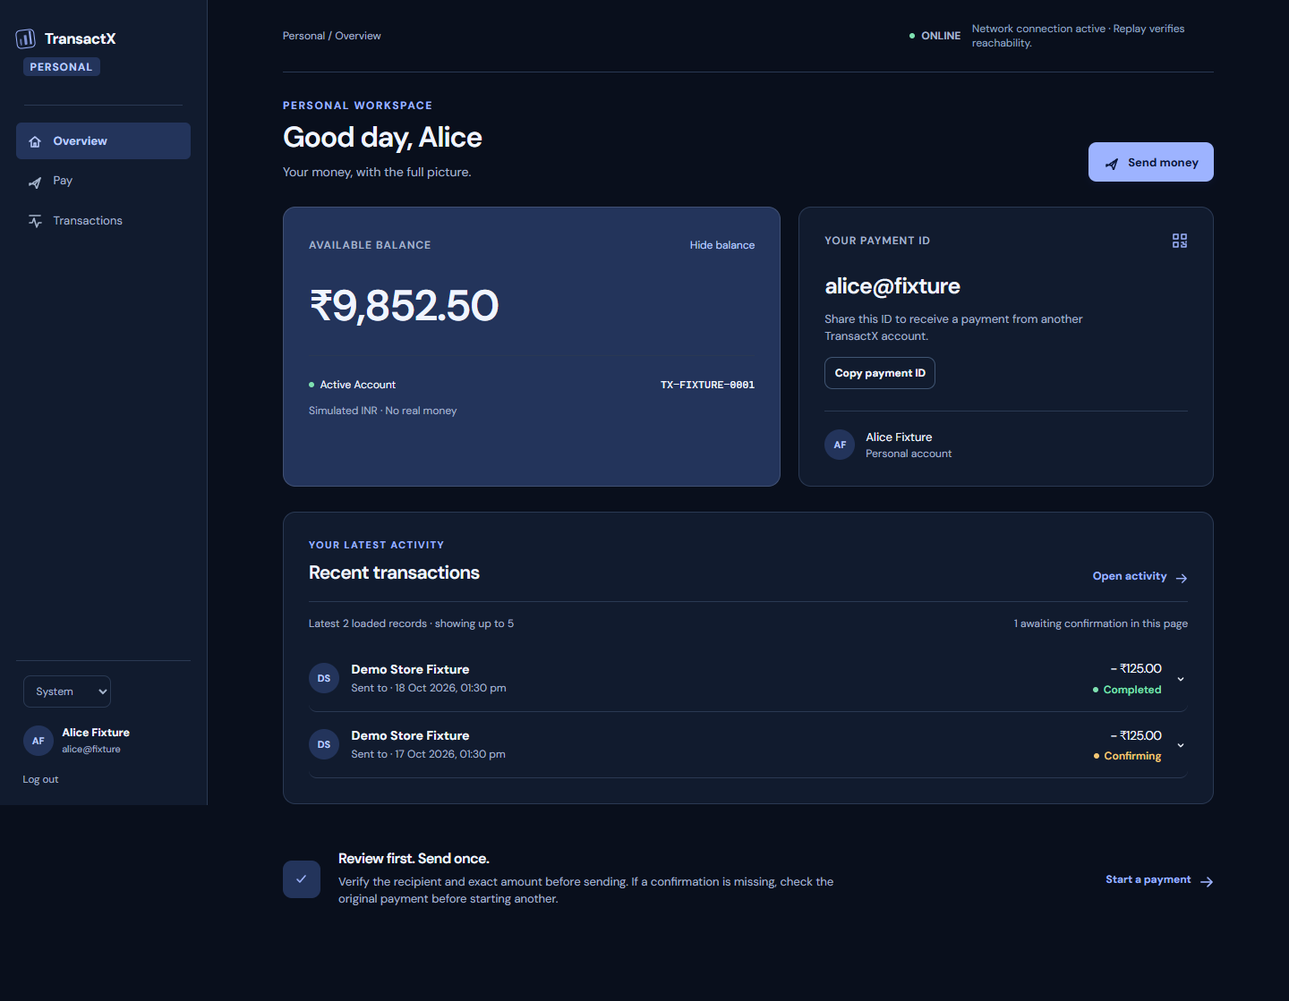
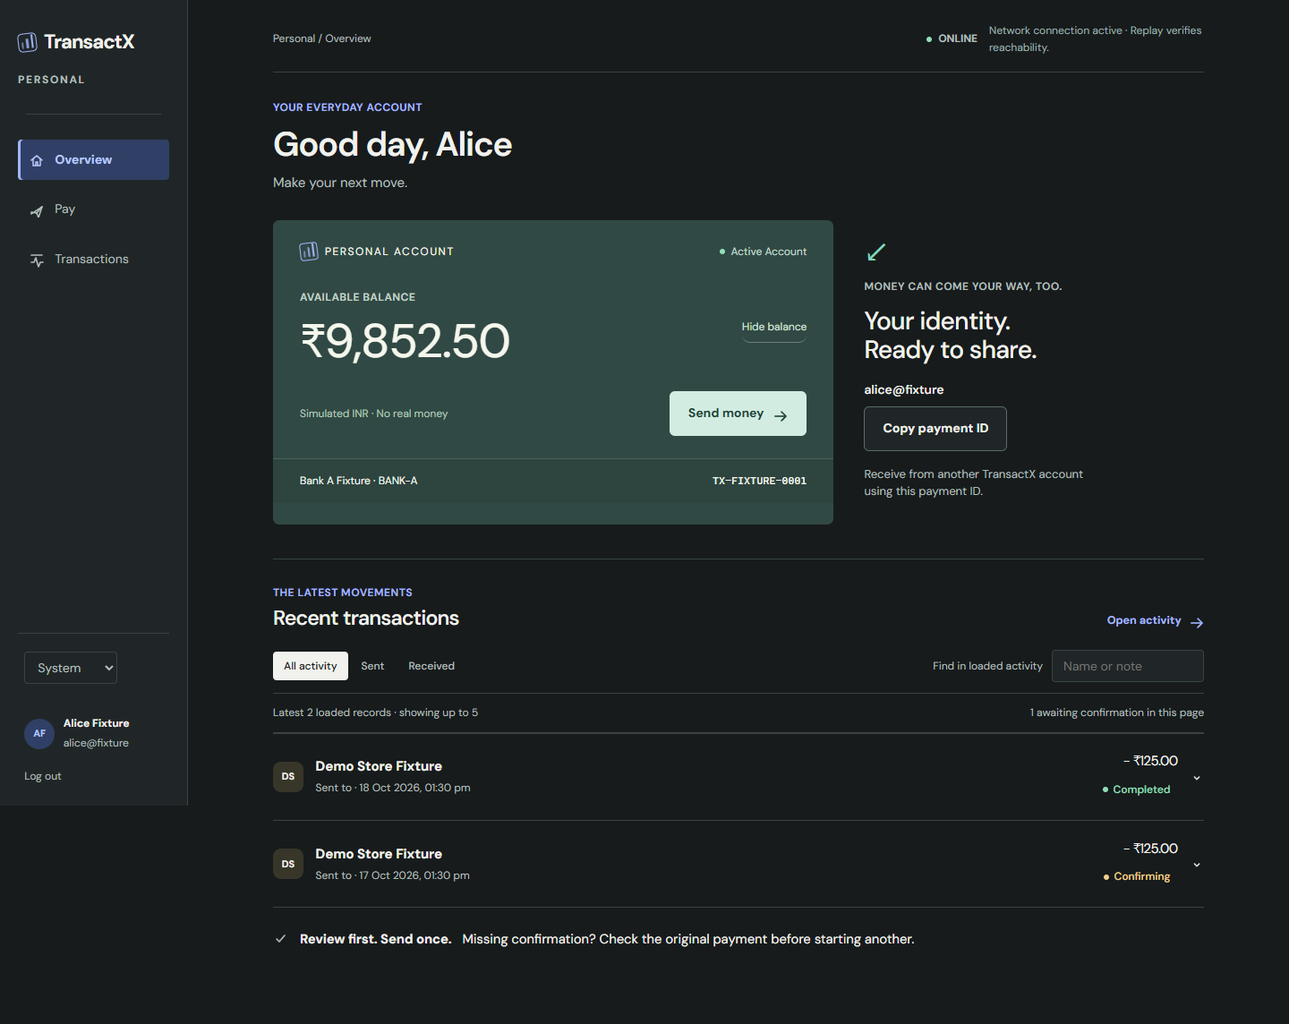
Extend accepted visual system across hosted V3 workflows

diff --git a/frontend/src/design/visual-reset.css b/frontend/src/design/visual-reset.css
@@ -1,4 +1,4 @@
-/* Representative slice. Other routes await the owner's visual-direction review. */
+/* Owner-accepted visual direction: DM Sans, financial documents and evidence-led workspaces. */
 .reset-public,.reset-workspace{--bg-page:#f5f4f0;--surface:#fff;--surface-soft:#eeeee8;--surface-elevated:#fff;--ink:#202728;--muted:#5a6464;--faint:#657171;--line:#d9ddd7;--line-strong:#bdc6be;--accent:#3158d5;--accent-strong:#2449b8;--accent-dark:#2449b8;--accent-pale:#e8edff;--accent-soft:#e8edff;--on-accent:#fff;--success:#156849;--success-bg:#e2f3e8;--warning:#83510c;--warning-bg:#fff1d6;--error:#ad3045;--error-bg:#ffecee;--reset-teal:#006b63;--reset-teal-soft:#deeee6;--reset-violet:#6650b9;--reset-violet-soft:#f0edf9;--reset-warm:#eee8d8;--text-primary:var(--ink);--text-secondary:var(--muted);--text-muted:var(--faint);background:var(--bg-page);color:var(--ink);font-size:15px;line-height:1.55}
 :root[data-theme=dark] :is(.reset-public,.reset-workspace){--bg-page:#171b1c;--surface:#202627;--surface-soft:#282f30;--surface-elevated:#30393a;--ink:#f1f2ed;--muted:#b1bfbc;--faint:#9eb0ac;--line:#394343;--line-strong:#5b6d68;--accent:#a3b6ff;--accent-strong:#b9c8ff;--accent-dark:#b9c8ff;--accent-pale:#303f65;--accent-soft:#303f65;--on-accent:#16213b;--success:#91dfb8;--success-bg:#233d31;--warning:#f0ce8c;--warning-bg:#3c3324;--error:#ffafbd;--error-bg:#442c33;--reset-teal:#81d6bf;--reset-teal-soft:#243d35;--reset-violet:#bdabef;--reset-violet-soft:#302c3e;--reset-warm:#383629}
 :is(.reset-public,.reset-workspace) :is(h1,h2,h3){text-wrap:balance;letter-spacing:-.025em}
@@ -232,3 +232,92 @@
 .reset-merchant .merchant-position small{overflow-wrap:anywhere}
 .reset-workspace :is(.personal-account-document,.merchant-position) .amount{white-space:normal;overflow-wrap:anywhere}
 @media(max-width:600px){.reset-merchant .merchant-position-mark{display:none}.reset-merchant .merchant-position{gap:0}}
+
+/* Consistency pass: extend the accepted system to existing workflows. */
+.reset-expanded :is(.card,.pay-form,.confirm-sheet,.details-hero,.record-section,.transactions-section,.merchant-qr-card,.merchant-receive-note,.settlement-group,.merchant-search-toolbar){border-radius:6px;box-shadow:none;border-color:var(--line);background:var(--surface)}
+.reset-expanded :is(.pay-form,.transactions-section,.record-section,.merchant-search-toolbar){padding:24px}
+.reset-expanded :is(.field,.field label,.transactions-filter,.ops-controls label){font-size:14px;line-height:1.5}
+.reset-expanded :is(input,textarea,select){font-size:14px;border-radius:4px}
+.reset-expanded :is(.field-hint,.payment-muted,.record-label,.record-source,.merchant-summary-foot,.merchant-full-reference,.scope-caption,.ops-muted,.console-pill,.console-badge,.merchant-status-label,.merchant-reference){font-size:12px;line-height:1.6;overflow-wrap:anywhere}
+.reset-expanded :is(.pay-form .section-kicker,.confirm-note,.confirm-recipient p,.record-row,.merchant-payment-expanded,.merchant-receipt-table,.settlement-description,.merchant-receive-note p){font-size:14px;line-height:1.6}
+.reset-expanded :is(.confirm-heading h1,.details-heading h1,.focused-state h1){font-weight:600;letter-spacing:-.03em}
+.reset-expanded .focused-state{max-width:800px;margin-inline:auto}
+.reset-expanded .confirm-sheet{border-top:3px solid var(--reset-teal)}
+.reset-expanded .confirm-amount{background:var(--surface-soft);border-color:var(--line)}
+.reset-expanded :is(.amount-input input,.confirm-amount .amount,.details-hero .amount){font-variant-numeric:tabular-nums;letter-spacing:-.03em}
+.reset-expanded :is(.state-description,.record-section p,.merchant-receive-note p){font-size:15px;line-height:1.65}
+.reset-expanded .result-mark{border-radius:50%;box-shadow:none}
+.reset-expanded :is(.transactions-toolbar,.transactions-filter-bar,.merchant-search-toolbar){gap:16px;border-color:var(--line)}
+.reset-expanded :is(.record-row,.merchant-payment-expanded){border-color:var(--line)}
+.reset-expanded .merchant-payment-expanded{background:var(--surface-soft);border-radius:0}
+.reset-expanded :is(.merchant-identity-strip,.merchant-receive-note){background:var(--reset-teal-soft)}
+.reset-expanded .merchant-qr-card{border-top:3px solid var(--reset-teal)}
+.reset-expanded :is(.settlement-group-header,.merchant-receipt-table th){background:var(--surface-soft)}
+.reset-expanded .ops-page:not(.reset-journey)>section{border-radius:4px;box-shadow:none}
+.reset-expanded .ops-page:not(.reset-journey) :is(.card,.ops-investigation){border-radius:4px;box-shadow:none;background:var(--surface)}
+.reset-expanded :is(.ops-controls,.worklist-page-summary,.analytics-summary){border-radius:4px;background:var(--surface-soft);border-color:var(--line)}
+.reset-expanded .ops-table{font-size:13px;line-height:1.6}
+.reset-expanded .ops-table th{font-size:12px;background:var(--surface-soft)}
+.reset-expanded .ops-table caption{font-size:12px;line-height:1.6}
+.reset-expanded :is(.ops-table td,.ops-mono,.proof-json,.hash-value){overflow-wrap:anywhere}
+.reset-expanded .ops-page:not(.reset-journey) .ops-banner{font-size:14px;line-height:1.6;border-radius:4px}
+.reset-expanded .ops-page:not(.reset-journey) :is(h2,h3){font-weight:600;letter-spacing:-.02em}
+.reset-expanded .ops-page:not(.reset-journey) .investigation-conclusion{background:var(--reset-violet-soft);border-radius:4px;border-left:2px solid var(--reset-violet)}
+.reset-expanded .ops-page:not(.reset-journey) .investigation-report{font-size:15px;line-height:1.65}
+.reset-expanded .ops-page:not(.reset-journey) .investigation-report li{font-size:15px}
+.reset-expanded .ops-page:not(.reset-journey) .ops-citation{color:var(--reset-violet);background:var(--reset-violet-soft);font-size:12px;line-height:1.6;overflow-wrap:anywhere}
+.reset-expanded :is(.analytics-chart,.health-probe-result,.reconciliation-detail,.proof-result){border-radius:4px;box-shadow:none;border-color:var(--line)}
+.reset-expanded .analytics-chart{background:var(--surface)}
+.reset-expanded .analytics-chart figcaption{font-size:14px}
+.reset-access .auth-intro{background:var(--reset-teal-soft);color:var(--ink);border-radius:0;box-shadow:none}
+.reset-access .auth-intro h2{font-weight:550;letter-spacing:-.035em;line-height:1.1}
+.reset-access .auth-intro h2 span{color:var(--reset-teal)}
+.reset-access .auth-evidence-note{background:transparent;border:0;border-top:1px solid var(--line-strong);border-radius:0;padding-top:24px}
+.reset-access .auth-intro :is(p,.intro-foot){color:var(--muted);font-size:14px;line-height:1.65}
+.reset-access .auth-panel{background:var(--surface);border-color:var(--line);border-radius:0;box-shadow:none}
+.reset-access :is(.auth-form-context,.auth-form-note,.auth-footnote,.auth-divider,.demo-progress,.role-name,.demo-secondary,.demo-notice){font-size:12px;line-height:1.6}
+.reset-access :is(.field,input,select){font-size:14px}
+.reset-access .demo-page{padding-block:40px}
+.reset-access .demo-page h1{font-size:clamp(36px,4.5vw,60px);font-weight:600;letter-spacing:-.035em}
+.reset-access .demo-page h1 span{color:var(--reset-teal)}
+.reset-access .demo-lead{font-size:16px;line-height:1.6;max-width:760px}
+.reset-access .demo-notice{background:var(--surface-soft);border-radius:4px;border:0;border-left:2px solid var(--reset-teal)}
+.reset-access .role-cards{gap:24px;margin-block:28px}
+.reset-access .role-card{background:var(--surface);border:1px solid var(--line);border-top:3px solid var(--reset-teal);border-radius:4px;box-shadow:none;padding:25px}
+.reset-access .role-card h2{font-size:27px;letter-spacing:-.025em}
+.reset-access .role-card>p{font-size:14px;line-height:1.6}
+.reset-access .role-number{font-size:12px;color:var(--muted)}
+.reset-access .role-icon{background:transparent;border-radius:0;color:var(--reset-teal)}
+.reset-access .role-card.is-recommended{border-top-color:var(--accent)}
+.reset-access .privacy-page :is(p,li){font-size:15px;line-height:1.7}
+.reset-library .showcase-source{background:var(--reset-teal-soft);border-color:var(--line)}
+.reset-library .showcase-source>div{font-size:12px}
+.reset-library .showcase-layout{gap:32px}
+.reset-library .showcase-stories{background:transparent}
+.reset-library .showcase-stories button{border-radius:3px;border-bottom:1px solid var(--line);padding:16px 12px}
+.reset-library .showcase-stories :is(small,strong){font-size:12px;line-height:1.6}
+.reset-library :is(.showcase-payment,.showcase-evidence,.showcase-records){border:0;border-top:1px solid var(--line-strong);border-radius:0;padding:24px 0;background:transparent;box-shadow:none}
+.reset-library .showcase-explanation{background:var(--reset-violet-soft);border-radius:4px;border:0;border-left:2px solid var(--reset-violet)}
+.reset-library :is(.showcase-event-meta,.showcase-records caption,.showcase-records code,.showcase-explanation nav a){font-size:12px}
+.reset-library .showcase-detail :is(p,li){font-size:14px;line-height:1.65}
+.reset-library .showcase-boundary{border-radius:4px;background:var(--surface-soft)}
+@media(max-width:960px){.reset-expanded .main-content{margin-left:0}.reset-expanded .content-wrap{padding-bottom:100px}}
+@media(max-width:600px){
+ .reset-expanded :is(.pay-form,.transactions-section,.record-section,.merchant-search-toolbar){padding:20px 16px}
+ .reset-expanded .page-header h1{font-size:30px}
+ .reset-expanded .confirm-amount .amount{font-size:38px}
+ .reset-expanded :is(.record-row,.merchant-payment-expanded){gap:12px}
+ .reset-expanded .merchant-qr-card{padding:24px 20px}
+ .reset-expanded .ops-controls{padding:18px 14px}
+ .reset-expanded .ops-table tr{background:var(--surface)}
+ .reset-access .auth-intro{padding:26px}
+ .reset-access .demo-page{padding-block:30px}
+ .reset-access .role-cards{gap:16px}
+ .reset-access .role-card{padding:22px}
+ .reset-library .showcase-stories{position:static}
+ .reset-library .showcase-layout{gap:20px}
+ .reset-library .showcase-explanation{padding:20px}
+}
+
+/* The mobile dialog owns a visible sidebar; the page sidebar stays hidden. */
+.reset-workspace .operator-navigation-dialog .sidebar{display:flex;position:static;inset:auto;width:100%;height:auto;min-height:0;padding:22px;border:0;background:var(--surface)}

diff --git a/frontend/src/public/PrivacyPage.tsx b/frontend/src/public/PrivacyPage.tsx
@@ -1,5 +1,5 @@
 import { PublicHeader } from "./LandingPage";
 
 export function PrivacyPage() {
-  return <div className="public-site"><PublicHeader /><main className="public-container privacy-page"><p className="eyebrow">TransactX demo</p><h1>Privacy & demo data</h1><p className="page-description">A simulated network for exploring payment reliability. No real money moves.</p><section><h2>Shared demo accounts</h2><p>Demo identities and their payment activity are shared with other visitors. Payment notes and investigation questions may appear in the operator workspace. Use synthetic information only; never enter bank details, personal information or secrets.</p></section><section><h2>Data on this device</h2><p>The application keeps its sign-in token and a minimal profile in session storage. Offline payment intents are kept in IndexedDB and separated by account. Logging out removes the session but retains saved intents for their original account. Your appearance preference is stored locally and survives logout.</p></section><section><h2>Network and evidence</h2><p>Payment records, bank observations and saved investigations are stored by the demo backend. Reliability evidence is retained rather than rewritten to change an outcome. Illustrative examples are labelled and are separate from live observations.</p></section><section><h2>External services</h2><p>The frontend is hosted on Vercel, the demo services on Render and the database on Neon. These services process network requests under their own terms. Fonts are served with the application. No advertising or analytics tracker is embedded in this application.</p><p>Google sign-in and model-assisted investigations, when enabled, require separate provider configuration. An evidence-only report does not imply a model call. Never include personal information in a report question.</p></section><section><h2>Google sign-in</h2><p>When enabled, Google handles consent and authentication. TransactX stores the verified issuer and subject with a generated public alias, and creates a zero-balance customer account. It does not store your Google name, email, access token or refresh token. Short-lived sign-in state and one-time codes expire; they are not payment evidence. Google identities are never linked to an existing account by email.</p></section><section><h2>Contact and source</h2><p>For a privacy question, contact the repository owner through <a href="https://github.com/whoevenisshubham/TransactX">the TransactX GitHub repository</a>. Do not post passwords, tokens or private account information in an issue.</p></section><a href="/demo" className="button button-primary">Explore shared demos</a></main></div>;
+  return <div className="public-site reset-public reset-access"><PublicHeader /><main className="public-container privacy-page"><p className="eyebrow">TransactX demo</p><h1>Privacy & demo data</h1><p className="page-description">A simulated network for exploring payment reliability. No real money moves.</p><section><h2>Shared demo accounts</h2><p>Demo identities and their payment activity are shared with other visitors. Payment notes and investigation questions may appear in the operator workspace. Use synthetic information only; never enter bank details, personal information or secrets.</p></section><section><h2>Data on this device</h2><p>The application keeps its sign-in token and a minimal profile in session storage. Offline payment intents are kept in IndexedDB and separated by account. Logging out removes the session but retains saved intents for their original account. Your appearance preference is stored locally and survives logout.</p></section><section><h2>Network and evidence</h2><p>Payment records, bank observations and saved investigations are stored by the demo backend. Reliability evidence is retained rather than rewritten to change an outcome. Illustrative examples are labelled and are separate from live observations.</p></section><section><h2>External services</h2><p>The frontend is hosted on Vercel, the demo services on Render and the database on Neon. These services process network requests under their own terms. Fonts are served with the application. No advertising or analytics tracker is embedded in this application.</p><p>Google sign-in and model-assisted investigations, when enabled, require separate provider configuration. An evidence-only report does not imply a model call. Never include personal information in a report question.</p></section><section><h2>Google sign-in</h2><p>When enabled, Google handles consent and authentication. TransactX stores the verified issuer and subject with a generated public alias, and creates a zero-balance customer account. It does not store your Google name, email, access token or refresh token. Short-lived sign-in state and one-time codes expire; they are not payment evidence. Google identities are never linked to an existing account by email.</p></section><section><h2>Contact and source</h2><p>For a privacy question, contact the repository owner through <a href="https://github.com/whoevenisshubham/TransactX">the TransactX GitHub repository</a>. Do not post passwords, tokens or private account information in an issue.</p></section><a href="/demo" className="button button-primary">Explore shared demos</a></main></div>;
 }

diff --git a/frontend/src/public/DemoPage.tsx b/frontend/src/public/DemoPage.tsx
@@ -27,5 +27,5 @@ export function DemoPage({ onAuthenticated }: { onAuthenticated: (token: string)
     catch (failure) { setError(failure instanceof Error ? failure.message : "Demo access is unavailable. Please try again."); }
     finally { setBusy(null); }
   }
-  return <div className="public-site"><PublicHeader /><main className="public-container demo-page"><p className="eyebrow">Explore the live simulated network</p><h1>One system.<br /><span>Choose your perspective.</span></h1><p className="demo-lead">No registration needed. These shared synthetic accounts use simulated money. Their activity is visible to other demo visitors.</p><div className="demo-notice"><span aria-hidden="true">↳</span><p>The free backend sleeps between visits. Your first sign-in may take longer while it wakes. Public demo access never grants administrator controls.</p></div>{error && <InlineError message={error} />}<div className="role-cards">{personas.map((persona, index) => <section className={`role-card demo-role ${requested === persona.key ? "is-recommended" : ""}`} key={persona.key}><div className="role-card-top"><span className="role-icon"><Icon name={persona.icon} size={22} /></span><span className="role-number">0{index + 1}</span></div><p className="role-name">{persona.name}</p><h2>{persona.title}</h2><p>{persona.description}</p><Button disabled={busy !== null} onClick={() => void enter(persona.key)}>{busy === persona.key ? "Connecting…" : `Explore ${persona.title.toLowerCase()}`}<Icon name="arrow" /></Button></section>)}</div><p className="demo-progress" role="status">{busy ? `${elapsed < 8 ? "Connecting to the demo" : "Waking the demo backend"} · ${elapsed}s elapsed. Please keep this page open.` : "Shared demo accounts are separate from private sign-in."}</p><div className="demo-secondary"><p>Need the other side of a transfer?</p><Button variant="secondary" disabled={busy !== null} onClick={() => void enter("recipient")}>{busy === "recipient" ? "Connecting…" : "Open Bob · Bank B"}</Button><a href="/login">Use your own account <span aria-hidden="true">↗</span></a></div></main></div>;
+  return <div className="public-site reset-public reset-access"><PublicHeader /><main className="public-container demo-page"><p className="eyebrow">Explore the live simulated network</p><h1>One system.<br /><span>Choose your perspective.</span></h1><p className="demo-lead">No registration needed. These shared synthetic accounts use simulated money. Their activity is visible to other demo visitors.</p><div className="demo-notice"><span aria-hidden="true">↳</span><p>The free backend sleeps between visits. Your first sign-in may take longer while it wakes. Public demo access never grants administrator controls.</p></div>{error && <InlineError message={error} />}<div className="role-cards">{personas.map((persona, index) => <section className={`role-card demo-role ${requested === persona.key ? "is-recommended" : ""}`} key={persona.key}><div className="role-card-top"><span className="role-icon"><Icon name={persona.icon} size={22} /></span><span className="role-number">0{index + 1}</span></div><p className="role-name">{persona.name}</p><h2>{persona.title}</h2><p>{persona.description}</p><Button disabled={busy !== null} onClick={() => void enter(persona.key)}>{busy === persona.key ? "Connecting…" : `Explore ${persona.title.toLowerCase()}`}<Icon name="arrow" /></Button></section>)}</div><p className="demo-progress" role="status">{busy ? `${elapsed < 8 ? "Connecting to the demo" : "Waking the demo backend"} · ${elapsed}s elapsed. Please keep this page open.` : "Shared demo accounts are separate from private sign-in."}</p><div className="demo-secondary"><p>Need the other side of a transfer?</p><Button variant="secondary" disabled={busy !== null} onClick={() => void enter("recipient")}>{busy === "recipient" ? "Connecting…" : "Open Bob · Bank B"}</Button><a href="/login">Use your own account <span aria-hidden="true">↗</span></a></div></main></div>;
 }

diff --git a/frontend/src/public/GoogleCallbackPage.tsx b/frontend/src/public/GoogleCallbackPage.tsx
@@ -15,5 +15,5 @@ export function GoogleCallbackPage({onAuthenticated}:{onAuthenticated:(token:str
     }).catch(()=>{if(active)setError("Google sign-in could not be completed or was cancelled. Start again, or explore a shared demo.");});
     return()=>{active=false;};
   },[onAuthenticated]);
-  return <div className="public-site"><PublicHeader/><main className="google-callback public-container"><p className="eyebrow">Private account access</p><h1>{newToken?"Your private sign-in is ready.":error?"Let’s try another way.":"Verifying your sign-in…"}</h1>{newToken?<><p>This simulated account starts at zero. Explore a funded shared demo to try payments. Your Google email and real name are not used as your public identity.</p><Button onClick={()=>{window.history.replaceState({},"","/");onAuthenticated(newToken);}}>Open my private account</Button><a className="button button-secondary" href="/demo">Explore funded shared demos</a></>:error?<><InlineError message={error}/><a className="button button-primary" href="/login">Try sign-in again</a><a className="button button-secondary" href="/demo">Explore shared demos</a></>:<p role="status">Exchanging a one-time code securely. No Google tokens are stored in your browser.</p>}</main></div>;
+  return <div className="public-site reset-public reset-access"><PublicHeader/><main className="google-callback public-container"><p className="eyebrow">Private account access</p><h1>{newToken?"Your private sign-in is ready.":error?"Let’s try another way.":"Verifying your sign-in…"}</h1>{newToken?<><p>This simulated account starts at zero. Explore a funded shared demo to try payments. Your Google email and real name are not used as your public identity.</p><Button onClick={()=>{window.history.replaceState({},"","/");onAuthenticated(newToken);}}>Open my private account</Button><a className="button button-secondary" href="/demo">Explore funded shared demos</a></>:error?<><InlineError message={error}/><a className="button button-primary" href="/login">Try sign-in again</a><a className="button button-secondary" href="/demo">Explore shared demos</a></>:<p role="status">Exchanging a one-time code securely. No Google tokens are stored in your browser.</p>}</main></div>;
 }

diff --git a/frontend/src/showcase/ShowcasePage.tsx b/frontend/src/showcase/ShowcasePage.tsx
@@ -17,7 +17,7 @@ export function ShowcasePage() {
   const records = story.records.slice(page*pageSize,(page+1)*pageSize);
   const reference = `EXAMPLE ${String(recordIndex+1).padStart(3,"0")}`;
   function selectStory(index: number) { setStoryIndex(index); setRecordIndex(0); setPage(0); }
-  return <div className="public-site showcase-site"><a className="skip-link" href="#main">Skip to content</a><PublicHeader />
+  return <div className="public-site showcase-site reset-public reset-library"><a className="skip-link" href="#main">Skip to content</a><PublicHeader />
     <div className="showcase-source"><div className="public-container"><strong><Icon name="activity" />Illustrative scenario — not the live network</strong><span>Fixed scenario date: {showcaseLibrary.scenarioDate} · UTC</span></div></div>
     <main id="main" className="public-container showcase-main">
       <PageHeader eyebrow="The scenario library" title="Follow the difficult moments." description="Eight guided stories about payment reliability. Explore the evidence, and the limits of what it can tell you." />

diff --git a/frontend/src/public/AuthPage.tsx b/frontend/src/public/AuthPage.tsx
@@ -32,7 +32,7 @@ export function AuthPage({
     return () => controller.abort();
   }, []);
   const registering = mode === "register" && options?.registrationEnabled === true;
-  return <div className="public-site"><PublicHeader /><main className="auth-layout experience-auth">
+  return <div className="public-site reset-public reset-access"><PublicHeader /><main className="auth-layout experience-auth">
     <section className="auth-intro">
       <div className="auth-intro-copy"><p className="eyebrow">Clear at every step</p><h2>Your payments.<br /><span>The complete picture.</span></h2><p>See what happened, what is known, and what needs another look.</p></div>
       <div className="auth-evidence-note"><span className="auth-note-icon" aria-hidden="true">↳</span><p><strong>Built around evidence.</strong> A bank timeout is never treated as proof of failure. Every outcome stays tied to the original payment.</p></div>

diff --git a/frontend/src/console.tsx b/frontend/src/console.tsx
@@ -167,7 +167,7 @@ export function ConsoleShell({ token, user, onLogout }: { token: string; user: U
   }
 
   return (
-    <div className={`product-shell console-shell ${view === "c-payment-evidence" ? "reset-workspace reset-operations" : ""}`}>
+    <div className="product-shell console-shell reset-workspace reset-operations reset-expanded">
       <ConsoleSidebar view={view} user={user} onNavigate={navigate} onLogout={onLogout} />
       <main className="main-content">
         <ConsoleMobileHeader user={user} onLogout={onLogout} onMenu={() => navigationDialog.current?.showModal()} />

diff --git a/frontend/src/merchant/MerchantShell.tsx b/frontend/src/merchant/MerchantShell.tsx
@@ -52,7 +52,7 @@ export function MerchantShell({ token, user, onLogout }: { token: string; user: 
   const account = accounts[0];
 
   return (
-    <div className={`product-shell merchant-shell ${view === "m-home" ? "reset-workspace reset-merchant" : ""}`}>
+    <div className="product-shell merchant-shell reset-workspace reset-merchant reset-expanded">
       <MerchantSidebar view={view} user={user} onNavigate={navigate} onLogout={onLogout} />
       <main className="main-content">
         <MerchantMobileHeader user={user} onLogout={onLogout} />

diff --git a/frontend/src/customer/CustomerShell.tsx b/frontend/src/customer/CustomerShell.tsx
@@ -146,7 +146,7 @@ export function CustomerShell({ token, onLogout }: { token: string; onLogout: ()
   const account = accounts[0];
 
   return (
-    <div className={`product-shell customer-shell ${view === "home" ? "reset-workspace reset-personal" : ""}`}>
+    <div className="product-shell customer-shell reset-workspace reset-personal reset-expanded">
       <Sidebar view={view} user={user} onNavigate={navigate} onLogout={onLogout} />
       <main className="main-content">
         <MobileHeader user={user} onLogout={onLogout} />
